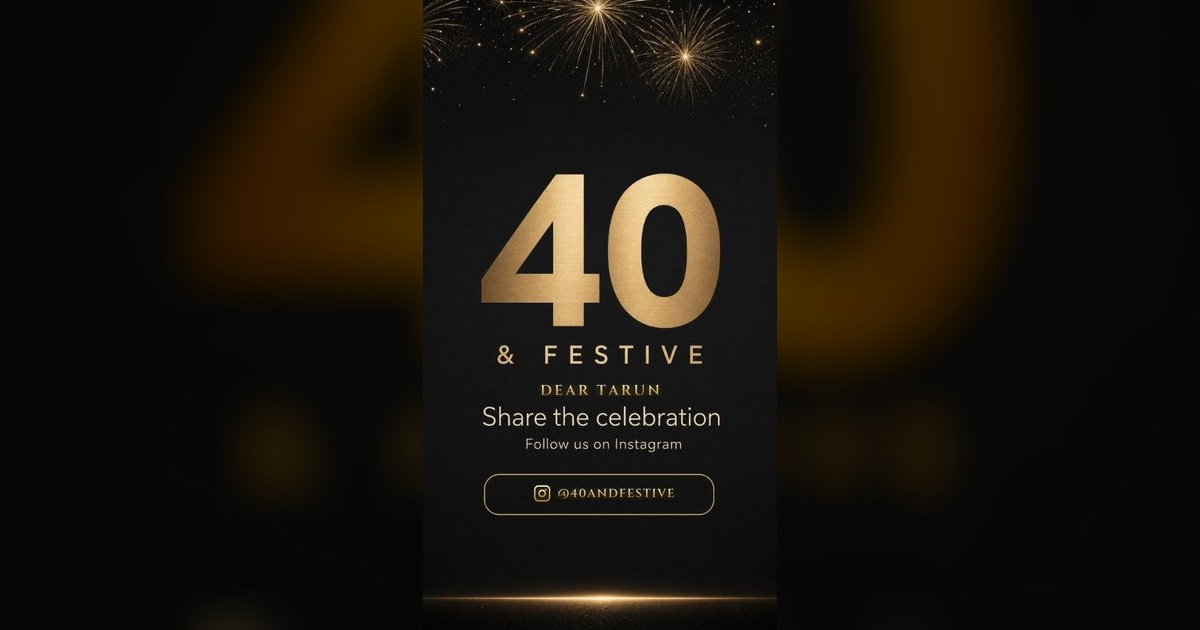
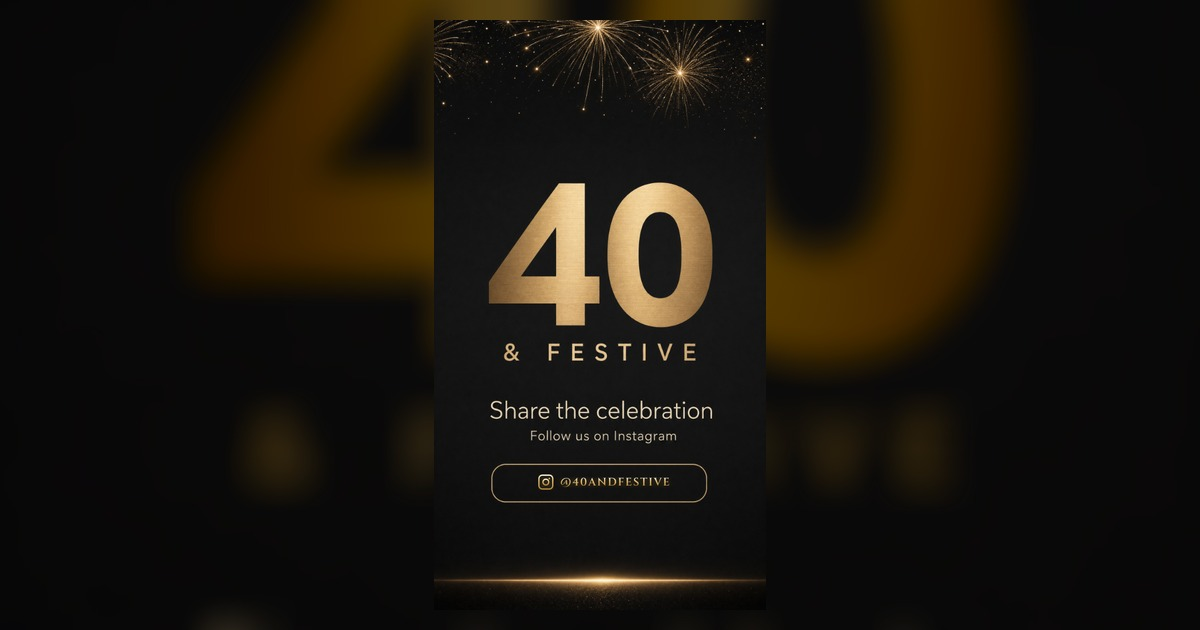
Streamline Instagram invite: send only page link without extra text, clean preview, and tap-to-open on page

diff --git a/src/app/i/[code]/page.tsx b/src/app/i/[code]/page.tsx
@@ -49,6 +49,18 @@ export async function generateMetadata({ params, searchParams }: Props) {
   const rawV = Array.isArray(sParams.v) ? sParams.v[0] : sParams.v
   const inviteType = (rawType || rawMode || '').toLowerCase()
 
+  let guest: Guest | null = null
+  if (code) {
+    try {
+      guest = await getGuestByCode(code)
+    } catch {}
+  }
+  const individualName = (guest?.nickname && guest.nickname.trim())
+    ? guest.nickname.trim()
+    : (guest?.first_name && guest.first_name.trim())
+    ? guest.first_name.trim().split(' ')[0]
+    : ''
+
   const isInsta = inviteType === 'insta' || inviteType === 'instagram' || inviteType === '40andfestive'
   const isDiwaliSaveDate = inviteType === 'save_date_diwali' || inviteType === 'std_diwali' || inviteType === 'diwali' || inviteType === 'save-date-diwali'
   const isDiwaliMain = inviteType === 'main_diwali' || inviteType === 'invite_diwali' || inviteType === 'diwali_main' || inviteType === 'diwali_invite'
@@ -60,9 +72,11 @@ export async function generateMetadata({ params, searchParams }: Props) {
   let ogImageUrl = "https://khandelwalinvite.vercel.app/og-main.jpg?v=5"
 
   if (isInsta) {
-    title = "@40andfestive — Official Instagram Page"
-    description = "Follow Arpit's 40th & Diwali Celebration on Instagram • Tap to open"
-    ogImageUrl = "https://khandelwalinvite.vercel.app/og-insta.jpg"
+    title = individualName
+      ? `Dear ${individualName} • @40andfestive`
+      : "@40andfestive — 40 & Festive"
+    description = "Follow us on Instagram • Tap to open"
+    ogImageUrl = "https://khandelwalinvite.vercel.app/og-insta.jpg?v=3"
   } else if (isSaveTheDate) {
     if (isDiwali) {
       title = "Grand Diwali Party Celebration"

diff --git a/src/app/admin/page.tsx b/src/app/admin/page.tsx
@@ -1000,10 +1000,7 @@ export default function AdminPage() {
       const iUrl = (customLinks.instaUrl || 'https://instagram.com').trim()
       msg = `📸 *EVENT PHOTOS & INSTAGRAM LINK* 📸\n\nDear *${name}*, ${EMOJI.heart}\n\nThank you for making Arpit's 40th & Diwali Bash so special! Here are the event photos and Instagram link for ${youTarget}:\n\n🖼 *Event Photo Gallery Link:*\n${pUrl}\n\n✨ *Instagram Reel / Story Link:*\n${iUrl}\n\n${EMOJI.gift} *Your Invitation Card:*\n${mainInviteLink}\n\nWith lots of love,\n*Tanvi Khandelwal & Family*`
     } else if (activeMode === 'insta') {
-      const individualName = (g.nickname && g.nickname.trim())
-        ? g.nickname.trim()
-        : (g.first_name || '').trim()
-      msg = `📸 *FOLLOW US ON INSTAGRAM!* 📸\n\nDear *${individualName}*, ${EMOJI.heart}\n\nWe’ve created an exclusive Instagram page to capture and share all the special moments, live stories, and memories from *Arpit’s 40th Birthday & Diwali Bash!* ✨\n\nTap below to connect directly with us on Instagram:\n\n✨ *Tap to Open @40andfestive:*\n${instaLink}\n\nLooking forward to celebrating together!\n*Tanvi Khandelwal & Family*`
+      msg = instaLink
     } else {
       // Default 'invite' (40 & Festive - Main Invite sent by Tanvi; adapts to RSVP status)
       if (isYes) {

diff --git a/src/components/InstaScreen.tsx b/src/components/InstaScreen.tsx
@@ -63,19 +63,6 @@ export default function InstaScreen({ guest, inviteCode }: Props) {
     }
   }
 
-  // Attempt automatic launch on mobile after short delay
-  useEffect(() => {
-    const isMobile = /Android|iPhone|iPad|iPod/i.test(navigator.userAgent)
-    if (isMobile) {
-      const timer = setTimeout(() => {
-        // Soft deep-link attempt
-        const appUri = 'instagram://user?username=40andfestive'
-        window.location.href = appUri
-      }, 900)
-      return () => clearTimeout(timer)
-    }
-  }, [])
-
   return (
     <div
       onClick={handleOpenInstagram}
